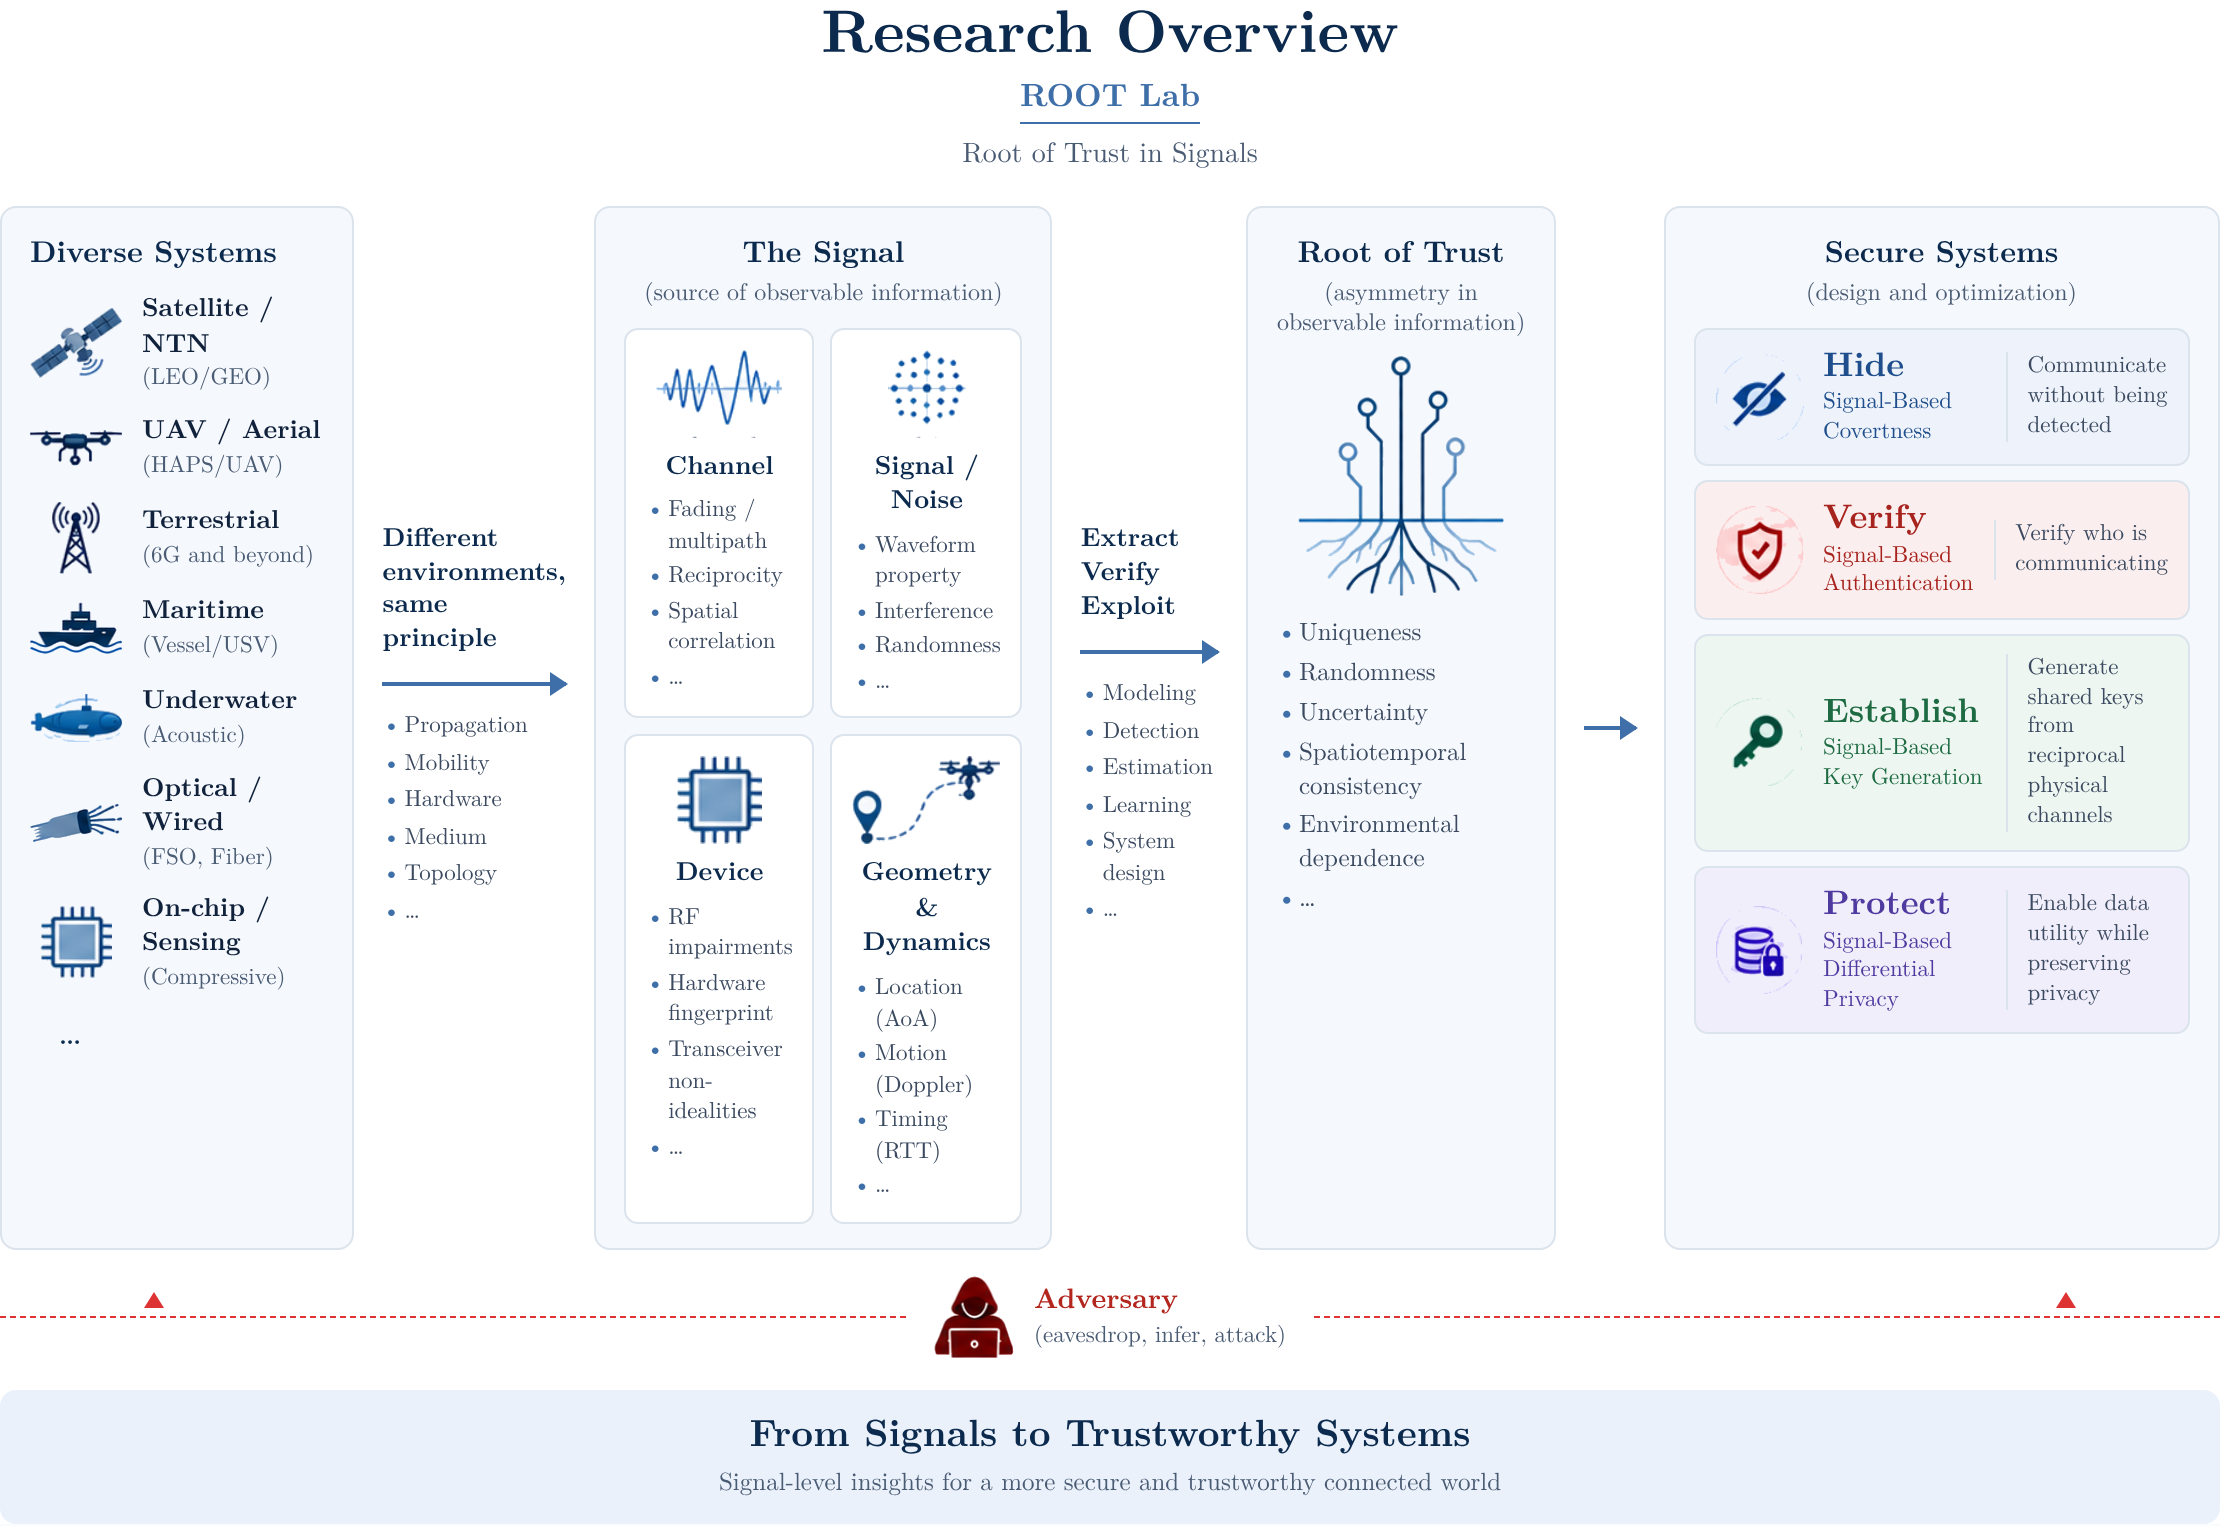
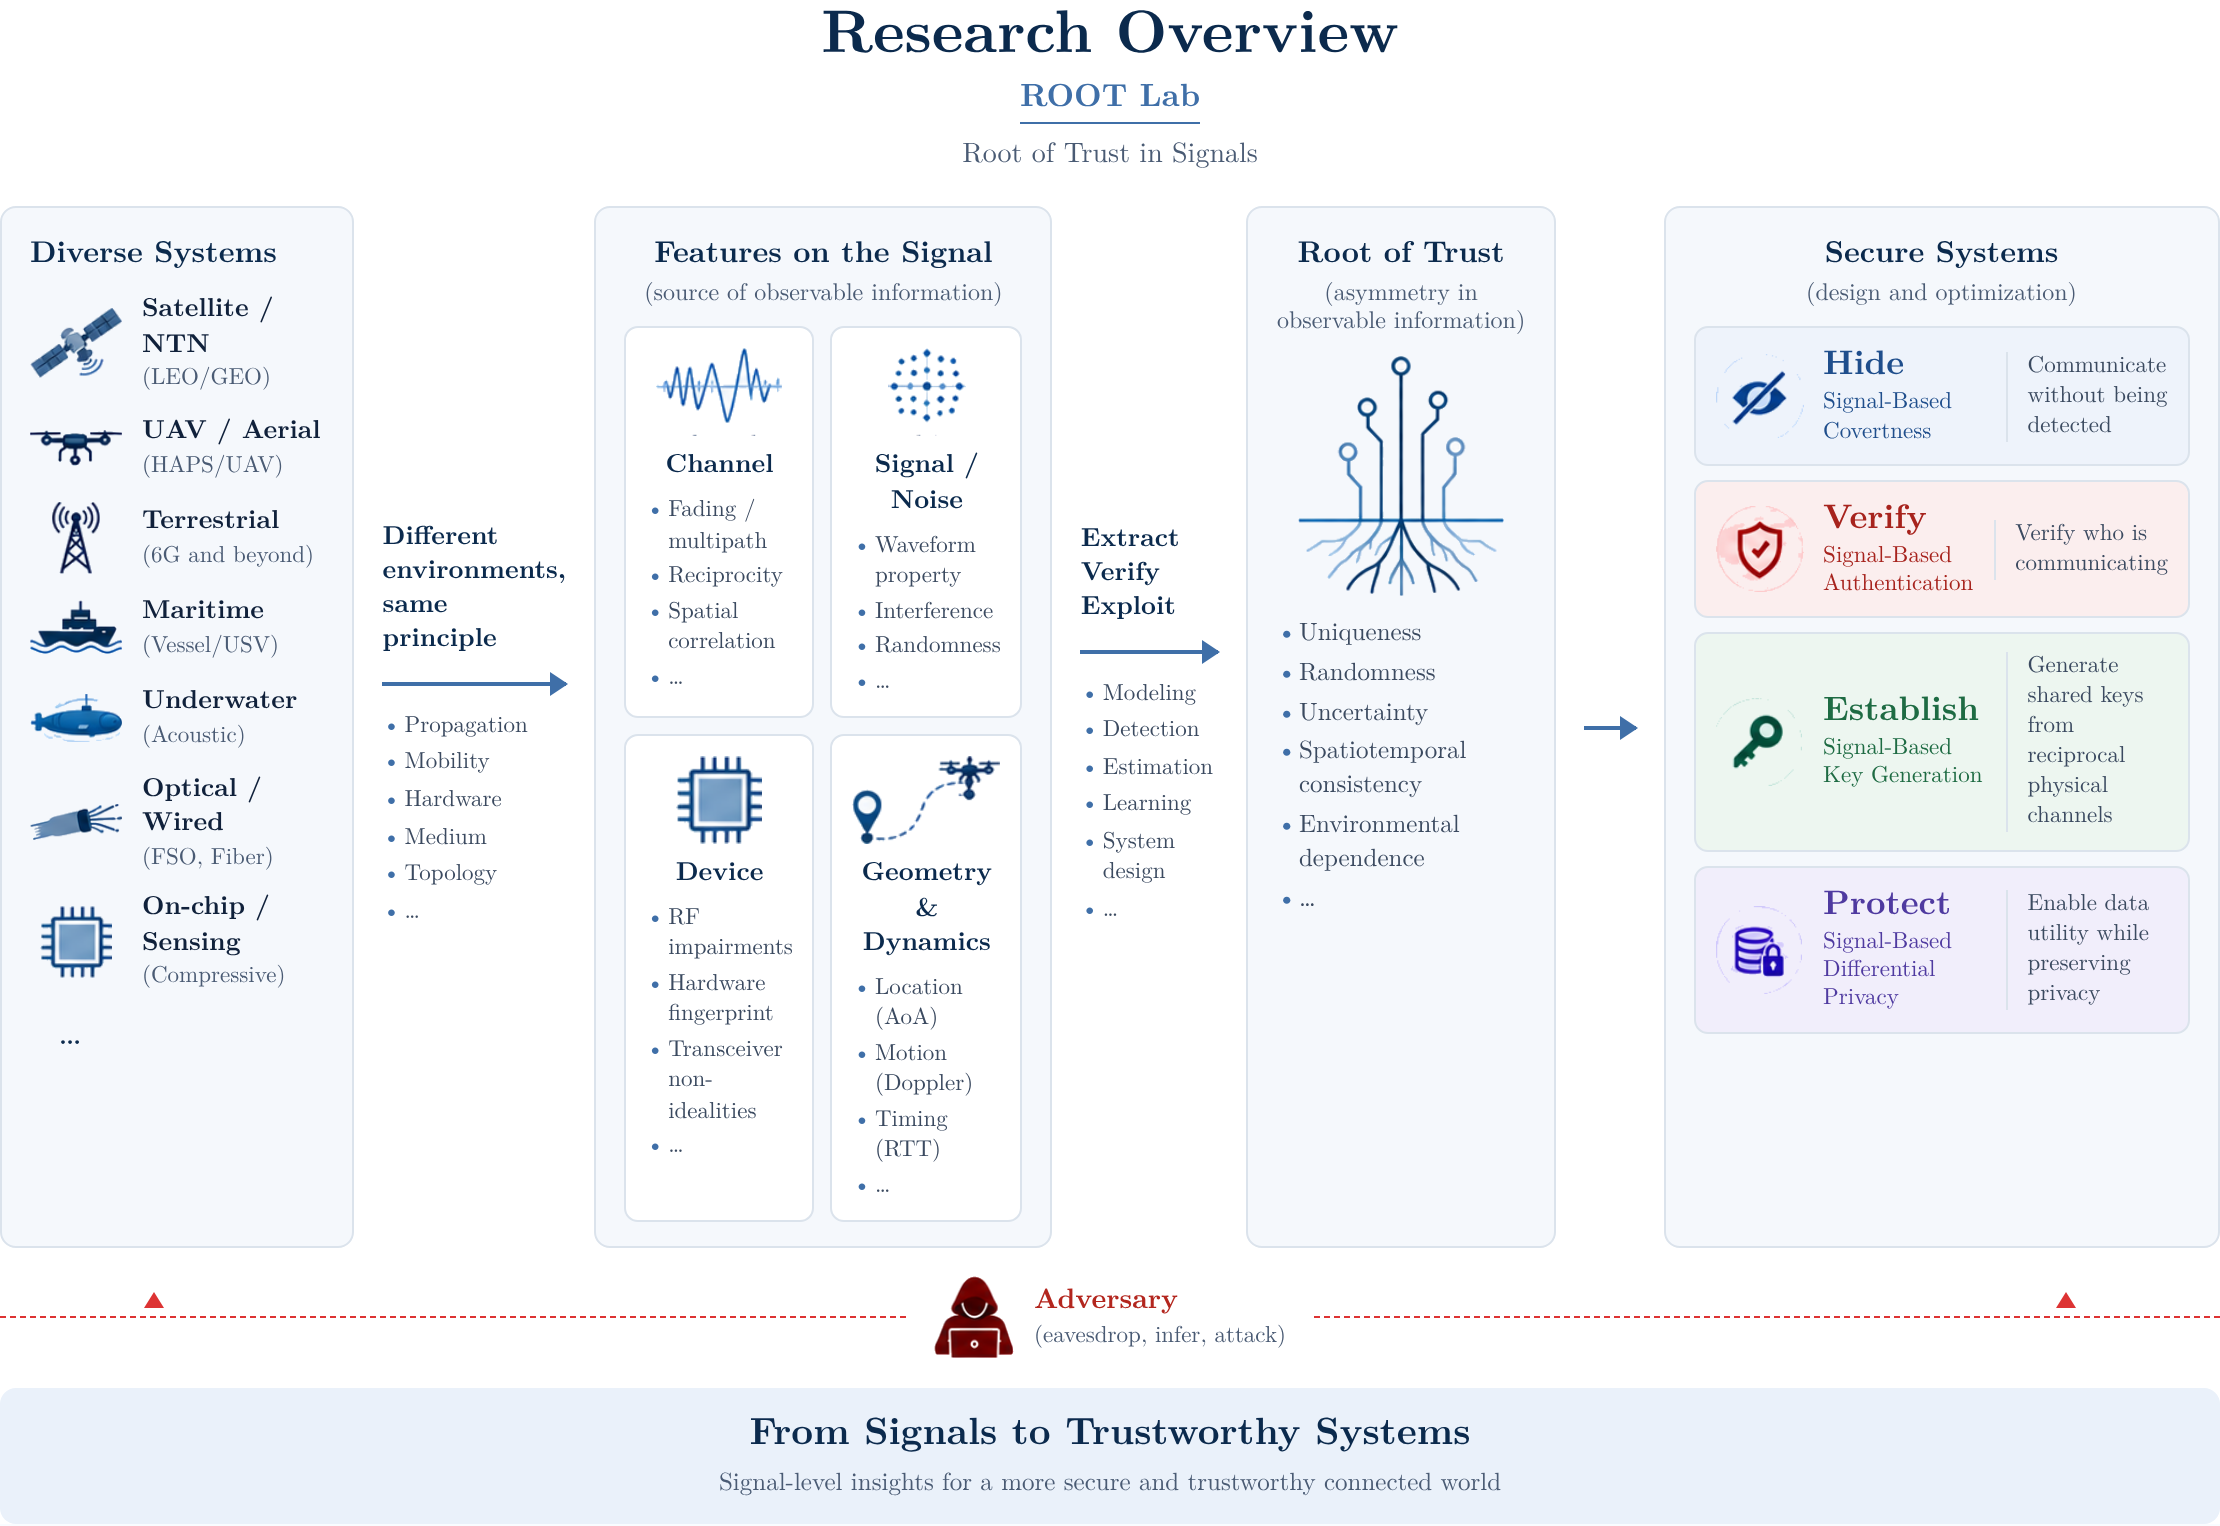
Rename overview diagram label to 'Features on the Signal' (#53)
* Rewrite the four research-topic descriptions

Replace each topic's two-paragraph description with a question-first,
example-grounded version: covertness (wireless background), authentication
(satellite orbit challenge-response), key generation (reciprocal channel),
and differential privacy (wearable recordings; local vs aggregated).
Rename the covert method to "Signal-Based Covertness" for consistency;
overview figure regenerated (v=9).

Claude-Session: https://claude.ai/code/session_01SH5JumREMWSvVFbqjGZATy

* Remove undergraduate stipend line from Open positions

Claude-Session: https://claude.ai/code/session_01SH5JumREMWSvVFbqjGZATy

* Rebrand Open positions copy from physical-layer to signal/system framing

Claude-Session: https://claude.ai/code/session_01SH5JumREMWSvVFbqjGZATy

* Refine Open positions wording

Claude-Session: https://claude.ai/code/session_01SH5JumREMWSvVFbqjGZATy

* Rename overview diagram label to 'Features on the Signal'

Claude-Session: https://claude.ai/code/session_01SH5JumREMWSvVFbqjGZATy

---------

diff --git a/research.html b/research.html
@@ -180,7 +180,7 @@
 <div class="ov-flow">
 <section class="ov-col ov-sys"><h4>Diverse Systems</h4><ul class="ov-syslist"><li><img src="assets/img/research/icons/satellite.png?v=1" alt="" loading="lazy"><span><b>Satellite / NTN</b><small>(LEO/GEO)</small></span></li><li><img src="assets/img/research/icons/uav.png?v=1" alt="" loading="lazy"><span><b>UAV / Aerial</b><small>(HAPS/UAV)</small></span></li><li><img src="assets/img/research/icons/tower.png?v=1" alt="" loading="lazy"><span><b>Terrestrial</b><small>(6G and beyond)</small></span></li><li><img src="assets/img/research/icons/ship.png?v=1" alt="" loading="lazy"><span><b>Maritime</b><small>(Vessel/USV)</small></span></li><li><img src="assets/img/research/icons/sub.png?v=1" alt="" loading="lazy"><span><b>Underwater</b><small>(Acoustic)</small></span></li><li><img src="assets/img/research/icons/fiber.png?v=1" alt="" loading="lazy"><span><b>Optical / Wired</b><small>(FSO, Fiber)</small></span></li><li><img src="assets/img/research/icons/device.png?v=1" alt="" loading="lazy"><span><b>On-chip / Sensing</b><small>(Compressive)</small></span></li><li class="ov-more">…</li></ul></section>
 <div class="ov-link"><b>Different environments, same principle</b><span class="ov-arrow" aria-hidden="true"></span><ul><li>Propagation</li><li>Mobility</li><li>Hardware</li><li>Medium</li><li>Topology</li><li>…</li></ul></div>
-<section class="ov-col ov-phy"><h4>The Signal<small>(source of observable information)</small></h4><div class="ov-phygrid"><div class="ov-card"><img src="assets/img/research/icons/channel.png?v=1" alt="" loading="lazy"><b>Channel</b><ul><li>Fading / multipath</li><li>Reciprocity</li><li>Spatial correlation</li><li>…</li></ul></div><div class="ov-card"><img src="assets/img/research/icons/noise.png?v=1" alt="" loading="lazy"><b>Signal / Noise</b><ul><li>Waveform property</li><li>Interference</li><li>Randomness</li><li>…</li></ul></div><div class="ov-card"><img src="assets/img/research/icons/device.png?v=1" alt="" loading="lazy"><b>Device</b><ul><li>RF impairments</li><li>Hardware fingerprint</li><li>Transceiver non-idealities</li><li>…</li></ul></div><div class="ov-card"><img src="assets/img/research/icons/geometry.png?v=1" alt="" loading="lazy"><b>Geometry &amp; Dynamics</b><ul><li>Location (AoA)</li><li>Motion (Doppler)</li><li>Timing (RTT)</li><li>…</li></ul></div></div></section>
+<section class="ov-col ov-phy"><h4>Features on the Signal<small>(source of observable information)</small></h4><div class="ov-phygrid"><div class="ov-card"><img src="assets/img/research/icons/channel.png?v=1" alt="" loading="lazy"><b>Channel</b><ul><li>Fading / multipath</li><li>Reciprocity</li><li>Spatial correlation</li><li>…</li></ul></div><div class="ov-card"><img src="assets/img/research/icons/noise.png?v=1" alt="" loading="lazy"><b>Signal / Noise</b><ul><li>Waveform property</li><li>Interference</li><li>Randomness</li><li>…</li></ul></div><div class="ov-card"><img src="assets/img/research/icons/device.png?v=1" alt="" loading="lazy"><b>Device</b><ul><li>RF impairments</li><li>Hardware fingerprint</li><li>Transceiver non-idealities</li><li>…</li></ul></div><div class="ov-card"><img src="assets/img/research/icons/geometry.png?v=1" alt="" loading="lazy"><b>Geometry &amp; Dynamics</b><ul><li>Location (AoA)</li><li>Motion (Doppler)</li><li>Timing (RTT)</li><li>…</li></ul></div></div></section>
 <div class="ov-link"><b class="ov-steps"><span>Extract</span><span>Verify</span><span>Exploit</span></b><span class="ov-arrow" aria-hidden="true"></span><ul><li>Modeling</li><li>Detection</li><li>Estimation</li><li>Learning</li><li>System design</li><li>…</li></ul></div>
 <section class="ov-col ov-root"><h4>Root of Trust<small>(asymmetry in observable information)</small></h4><img src="assets/img/research/icons/roots.png?v=1" alt="" loading="lazy"><ul><li>Uniqueness</li><li>Randomness</li><li>Uncertainty</li><li>Spatiotemporal consistency</li><li>Environmental dependence</li><li>…</li></ul></section>
 <div class="ov-link ov-link-short"><span class="ov-arrow" aria-hidden="true"></span></div>
@@ -188,7 +188,7 @@
 </div>
 <div class="ov-adv"><span class="ov-advline ov-advline-l" aria-hidden="true"></span><div class="ov-advbox"><img src="assets/img/research/icons/adversary.png?v=1" alt="" loading="lazy"><span><b>Adversary</b><small>(eavesdrop, infer, attack)</small></span></div><span class="ov-advline ov-advline-r" aria-hidden="true"></span></div>
 <div class="ov-foot"><b>From Signals to Trustworthy Systems</b><span>Signal-level insights for a more secure and trustworthy connected world</span></div>
-</div><figcaption class="ov-dl"><a href="assets/img/research/overview-figure.png?v=9" target="_blank" rel="noopener">Open as image ↗</a></figcaption></figure>
+</div><figcaption class="ov-dl"><a href="assets/img/research/overview-figure.png?v=10" target="_blank" rel="noopener">Open as image ↗</a></figcaption></figure>
     </div>
   </section>
 
